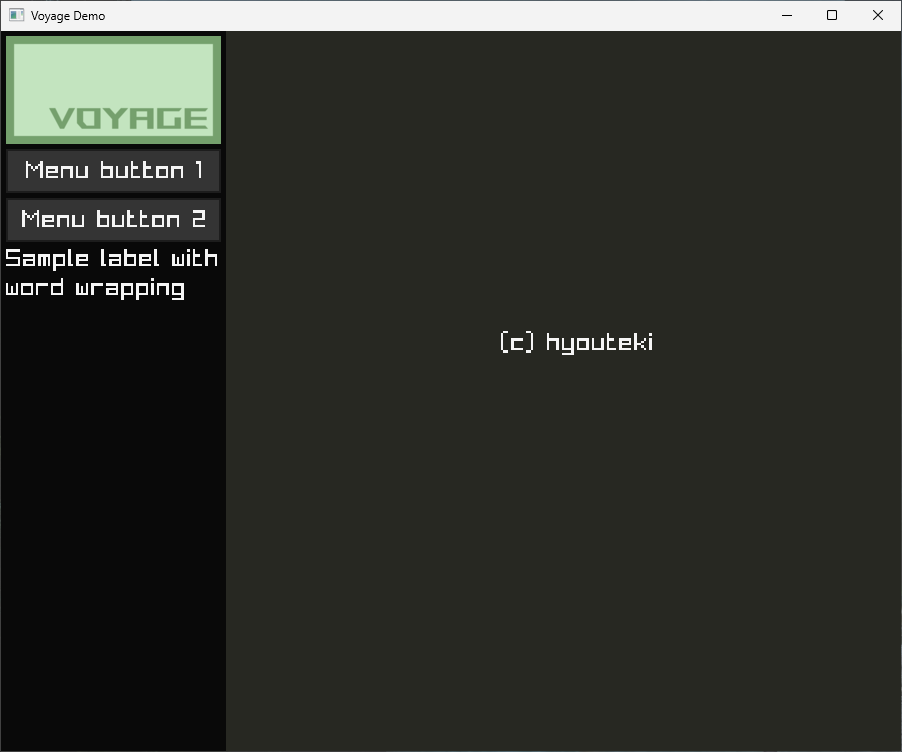
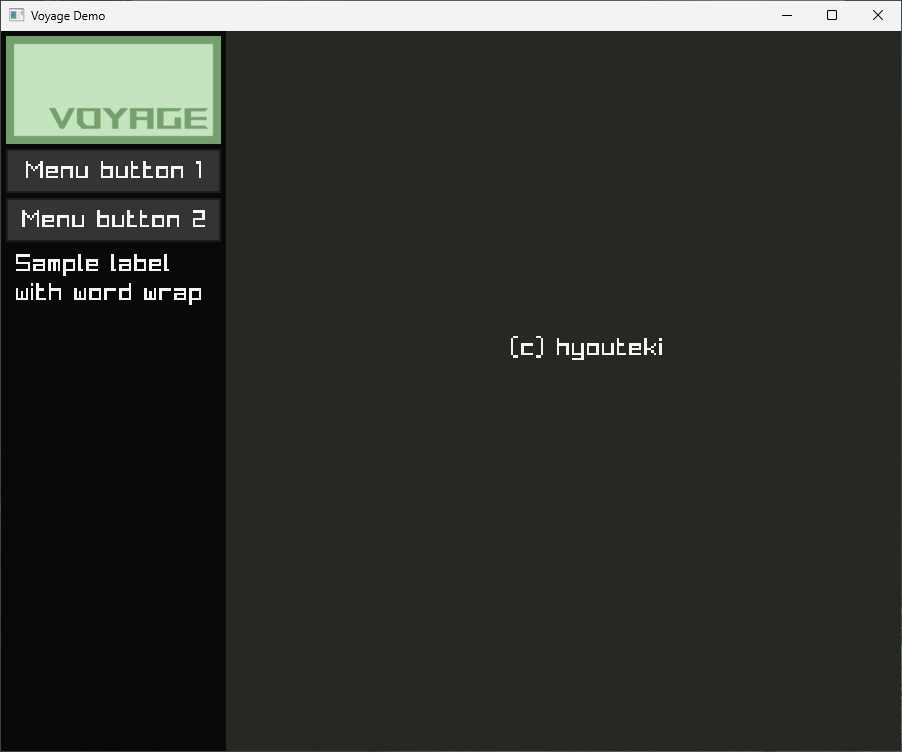
updatd readme demo

Changed region(s): [[0.0, 0.3364, 0.2483, 0.3976], [0.5588, 0.4282, 0.745, 0.4894]]

diff --git a/README.md b/README.md
@@ -6,7 +6,7 @@
 <image src="./images/demo1.png" width="1000">
 
 ``` c
-#include "voyage/export.h"
+#include "export.h"
 
 void buttonOnClick() {
 	printf("Menu button clicked\n");
@@ -18,21 +18,21 @@ int main() {
 	SetTargetFPS(60);
 	
 	int width = GetScreenWidth(), height = GetScreenHeight();
-	Sidebar sidebar = Sidebar_Init((Vector2){width, height}, Voyage_Brown);
+	Column sidebar = Column_Init(Vector2Dummy, (Vector2){width*0.25, height}, Voyage_Black);
 	Image image = LoadImage("./images/logo.png");
-	Sidebar_AddElement(&sidebar, &ImageContainer_EleInit(Vector2Dummy, Vector2Dummy, &image));
-	Sidebar_AddElement(&sidebar, &Button_EleInit(Vector2Dummy, 0, "Menu button 1", &buttonOnClick));	
-	Sidebar_AddElement(&sidebar, &Button_EleInit(Vector2Dummy, 0, "Menu button 2", NULL));
-	Sidebar_AddElement(&sidebar, &Label_EleInit(Vector2Dummy, 0, "Sample label with word wrapping"));
+	Column_AddElement(&sidebar, &ImageContainer_EleInit(Vector2Dummy, Vector2Dummy, &image));
+	Column_AddElement(&sidebar, &Button_EleInit(Vector2Dummy, 0, "Menu button 1", &buttonOnClick));	
+	Column_AddElement(&sidebar, &Button_EleInit(Vector2Dummy, 0, "Menu button 2", NULL));	
+	Column_AddElement(&sidebar, &Label_EleInit(Vector2Dummy, 0, "Sample label with word wrap"));
 	Label label = Label_Init((Vector2){500, 300}, 300, "(c) hyouteki");
 	
 	while (!WindowShouldClose()) {
 		width = GetScreenWidth(), height = GetScreenHeight();
-		Sidebar_Resize(&sidebar, (Vector2){width, height});
+		Column_Resize(&sidebar, (Vector2){width*0.25, height});
 		
 		BeginDrawing();
 		ClearBackground(Voyage_DarkBrown);
-		Sidebar_Draw(sidebar);
+		Column_Draw(sidebar);
 		Label_Draw(label);
 		EndDrawing();
 	}
